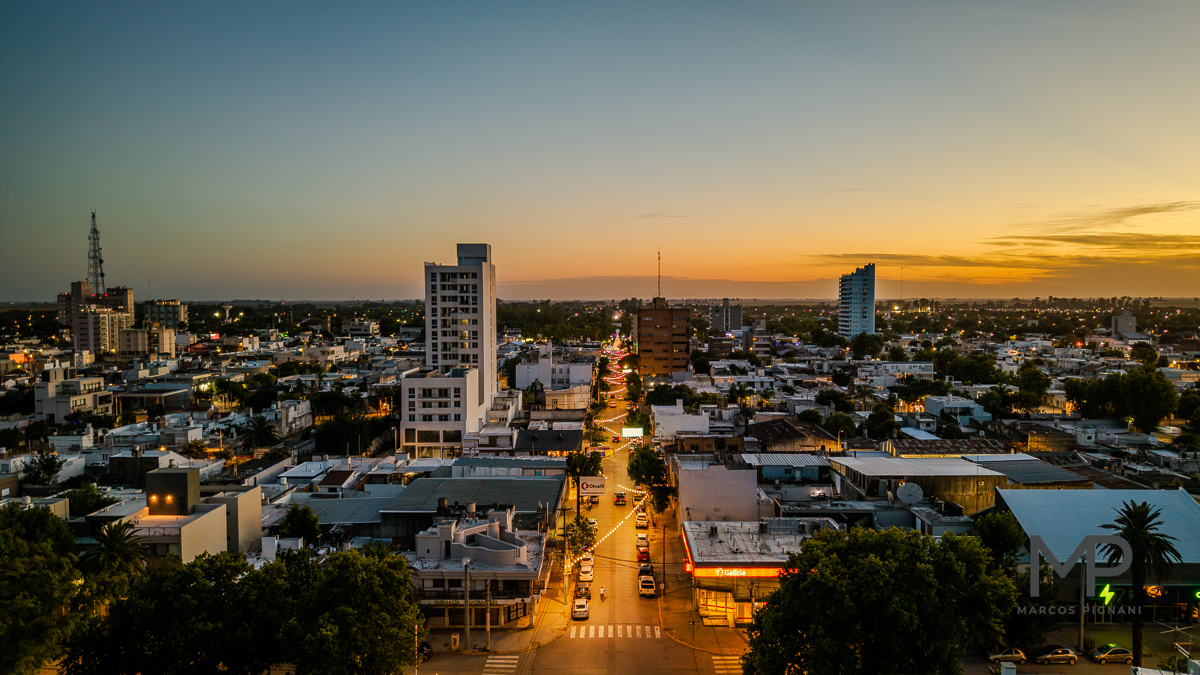
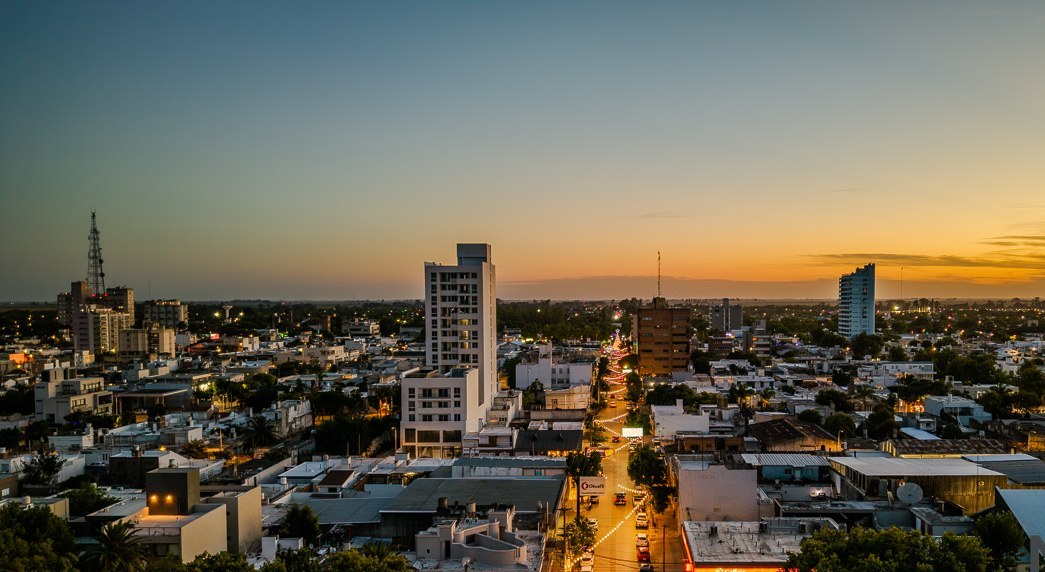
Fotos limpias para la rotonda, la vista aerea y el Tribunal de Cuentas
La foto de la rotonda venia con un rotulo encima y se recorto; la vista
aerea tenia marca de agua y tambien. La descarga del Tribunal de
Cuentas traia un logo en vez de una foto, asi que la nota usa una foto
real de la ciudad.

Claude-Session: https://claude.ai/code/session_01NktL93t9DX94HL6BaasW91

diff --git a/src/content/notas/tribunal-de-cuentas-marcos-juarez-ivana-merigo.md b/src/content/notas/tribunal-de-cuentas-marcos-juarez-ivana-merigo.md
@@ -6,8 +6,8 @@ etiquetas: [municipio, politica]
 localidad: marcos-juarez
 autor: redaccion
 fecha: 2026-11-18T22:10:00-03:00
-foto: ./img/tribunal-de-cuentas-marcos-juarez-merigo.jpg
-fotoAlt: "Ivana Merigo, próxima integrante del Tribunal de Cuentas de Marcos Juárez"
+foto: ./img/marcos-juarez-vista-aerea-atardecer.jpg
+fotoAlt: "Vista aérea del centro de Marcos Juárez al atardecer"
 destacada: true
 seoTitulo: "Ivana Merigo encabezará el Tribunal de Cuentas de Marcos Juárez"
 seoDescripcion: "Merigo asume en diciembre al frente del Tribunal de Cuentas municipal, que quedará integrado con Mariel Bracamonte y Próspero Rearte por la oposición."
